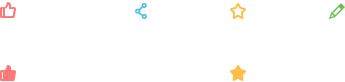
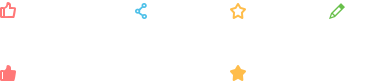
论坛
论坛

diff --git a/source/widget/Mall.forum.index/slider.js b/source/widget/Mall.forum.index/slider.js
@@ -1,0 +1,37 @@
+/**
+ * Created by yangjingjing on 2017/8/9.
+ */
+
+;(function(d){d.flexslider=function(i,k){var a=d(i),c=d.extend({},d.flexslider.defaults,k),e=c.namespace,p="ontouchstart"in window||window.DocumentTouch&&document instanceof DocumentTouch,t=p?"touchend":"click",l="vertical"===c.direction,m=c.reverse,h=0<c.itemWidth,r="fade"===c.animation,s=""!==c.asNavFor,f={};d.data(i,"flexslider",a);f={init:function(){a.animating=!1;a.currentSlide=c.startAt;a.animatingTo=a.currentSlide;a.atEnd=0===a.currentSlide||a.currentSlide===a.last;a.containerSelector=c.selector.substr(0,
+    c.selector.search(" "));a.slides=d(c.selector,a);a.container=d(a.containerSelector,a);a.count=a.slides.length;a.syncExists=0<d(c.sync).length;"slide"===c.animation&&(c.animation="swing");a.prop=l?"top":"marginLeft";a.args={};a.manualPause=!1;var b=a,g;if(g=!c.video)if(g=!r)if(g=c.useCSS)a:{g=document.createElement("div");var n=["perspectiveProperty","WebkitPerspective","MozPerspective","OPerspective","msPerspective"],e;for(e in n)if(void 0!==g.style[n[e]]){a.pfx=n[e].replace("Perspective","").toLowerCase();
+    a.prop="-"+a.pfx+"-transform";g=!0;break a}g=!1}b.transitions=g;""!==c.controlsContainer&&(a.controlsContainer=0<d(c.controlsContainer).length&&d(c.controlsContainer));""!==c.manualControls&&(a.manualControls=0<d(c.manualControls).length&&d(c.manualControls));c.randomize&&(a.slides.sort(function(){return Math.round(Math.random())-0.5}),a.container.empty().append(a.slides));a.doMath();s&&f.asNav.setup();a.setup("init");c.controlNav&&f.controlNav.setup();c.directionNav&&f.directionNav.setup();c.keyboard&&
+(1===d(a.containerSelector).length||c.multipleKeyboard)&&d(document).bind("keyup",function(b){b=b.keyCode;if(!a.animating&&(39===b||37===b))b=39===b?a.getTarget("next"):37===b?a.getTarget("prev"):!1,a.flexAnimate(b,c.pauseOnAction)});c.mousewheel&&a.bind("mousewheel",function(b,g){b.preventDefault();var d=0>g?a.getTarget("next"):a.getTarget("prev");a.flexAnimate(d,c.pauseOnAction)});c.pausePlay&&f.pausePlay.setup();c.slideshow&&(c.pauseOnHover&&a.hover(function(){!a.manualPlay&&!a.manualPause&&a.pause()},
+    function(){!a.manualPause&&!a.manualPlay&&a.play()}),0<c.initDelay?setTimeout(a.play,c.initDelay):a.play());p&&c.touch&&f.touch();(!r||r&&c.smoothHeight)&&d(window).bind("resize focus",f.resize);setTimeout(function(){c.start(a)},200)},asNav:{setup:function(){a.asNav=!0;a.animatingTo=Math.floor(a.currentSlide/a.move);a.currentItem=a.currentSlide;a.slides.removeClass(e+"active-slide").eq(a.currentItem).addClass(e+"active-slide");a.slides.click(function(b){b.preventDefault();var b=d(this),g=b.index();
+    !d(c.asNavFor).data("flexslider").animating&&!b.hasClass("active")&&(a.direction=a.currentItem<g?"next":"prev",a.flexAnimate(g,c.pauseOnAction,!1,!0,!0))})}},controlNav:{setup:function(){a.manualControls?f.controlNav.setupManual():f.controlNav.setupPaging()},setupPaging:function(){var b=1,g;a.controlNavScaffold=d('<ol class="'+e+"control-nav "+e+("thumbnails"===c.controlNav?"control-thumbs":"control-paging")+'"></ol>');if(1<a.pagingCount)for(var n=0;n<a.pagingCount;n++)g="thumbnails"===c.controlNav?
+    '<img src="'+a.slides.eq(n).attr("data-thumb")+'"/>':"<a>"+b+"</a>",a.controlNavScaffold.append("<li>"+g+"</li>"),b++;a.controlsContainer?d(a.controlsContainer).append(a.controlNavScaffold):a.append(a.controlNavScaffold);f.controlNav.set();f.controlNav.active();a.controlNavScaffold.delegate("a, img",t,function(b){b.preventDefault();var b=d(this),g=a.controlNav.index(b);b.hasClass(e+"active")||(a.direction=g>a.currentSlide?"next":"prev",a.flexAnimate(g,c.pauseOnAction))});p&&a.controlNavScaffold.delegate("a",
+    "click touchstart",function(a){a.preventDefault()})},setupManual:function(){a.controlNav=a.manualControls;f.controlNav.active();a.controlNav.live(t,function(b){b.preventDefault();var b=d(this),g=a.controlNav.index(b);b.hasClass(e+"active")||(g>a.currentSlide?a.direction="next":a.direction="prev",a.flexAnimate(g,c.pauseOnAction))});p&&a.controlNav.live("click touchstart",function(a){a.preventDefault()})},set:function(){a.controlNav=d("."+e+"control-nav li "+("thumbnails"===c.controlNav?"img":"a"),
+    a.controlsContainer?a.controlsContainer:a)},active:function(){a.controlNav.removeClass(e+"active").eq(a.animatingTo).addClass(e+"active")},update:function(b,c){1<a.pagingCount&&"add"===b?a.controlNavScaffold.append(d("<li><a>"+a.count+"</a></li>")):1===a.pagingCount?a.controlNavScaffold.find("li").remove():a.controlNav.eq(c).closest("li").remove();f.controlNav.set();1<a.pagingCount&&a.pagingCount!==a.controlNav.length?a.update(c,b):f.controlNav.active()}},directionNav:{setup:function(){var b=d('<ul class="'+
+    e+'direction-nav"><li><a class="'+e+'prev" href="#">'+c.prevText+'</a></li><li><a class="'+e+'next" href="#">'+c.nextText+"</a></li></ul>");a.controlsContainer?(d(a.controlsContainer).append(b),a.directionNav=d("."+e+"direction-nav li a",a.controlsContainer)):(a.append(b),a.directionNav=d("."+e+"direction-nav li a",a));f.directionNav.update();a.directionNav.bind(t,function(b){b.preventDefault();b=d(this).hasClass(e+"next")?a.getTarget("next"):a.getTarget("prev");a.flexAnimate(b,c.pauseOnAction)});
+    p&&a.directionNav.bind("click touchstart",function(a){a.preventDefault()})},update:function(){var b=e+"disabled";1===a.pagingCount?a.directionNav.addClass(b):c.animationLoop?a.directionNav.removeClass(b):0===a.animatingTo?a.directionNav.removeClass(b).filter("."+e+"prev").addClass(b):a.animatingTo===a.last?a.directionNav.removeClass(b).filter("."+e+"next").addClass(b):a.directionNav.removeClass(b)}},pausePlay:{setup:function(){var b=d('<div class="'+e+'pauseplay"><a></a></div>');a.controlsContainer?
+    (a.controlsContainer.append(b),a.pausePlay=d("."+e+"pauseplay a",a.controlsContainer)):(a.append(b),a.pausePlay=d("."+e+"pauseplay a",a));f.pausePlay.update(c.slideshow?e+"pause":e+"play");a.pausePlay.bind(t,function(b){b.preventDefault();d(this).hasClass(e+"pause")?(a.manualPause=!0,a.manualPlay=!1,a.pause()):(a.manualPause=!1,a.manualPlay=!0,a.play())});p&&a.pausePlay.bind("click touchstart",function(a){a.preventDefault()})},update:function(b){"play"===b?a.pausePlay.removeClass(e+"pause").addClass(e+
+        "play").text(c.playText):a.pausePlay.removeClass(e+"play").addClass(e+"pause").text(c.pauseText)}},touch:function(){function b(b){j=l?d-b.touches[0].pageY:d-b.touches[0].pageX;p=l?Math.abs(j)<Math.abs(b.touches[0].pageX-e):Math.abs(j)<Math.abs(b.touches[0].pageY-e);if(!p||500<Number(new Date)-k)b.preventDefault(),!r&&a.transitions&&(c.animationLoop||(j/=0===a.currentSlide&&0>j||a.currentSlide===a.last&&0<j?Math.abs(j)/q+2:1),a.setProps(f+j,"setTouch"))}function g(){i.removeEventListener("touchmove",
+    b,!1);if(a.animatingTo===a.currentSlide&&!p&&null!==j){var h=m?-j:j,l=0<h?a.getTarget("next"):a.getTarget("prev");a.canAdvance(l)&&(550>Number(new Date)-k&&50<Math.abs(h)||Math.abs(h)>q/2)?a.flexAnimate(l,c.pauseOnAction):r||a.flexAnimate(a.currentSlide,c.pauseOnAction,!0)}i.removeEventListener("touchend",g,!1);f=j=e=d=null}var d,e,f,q,j,k,p=!1;i.addEventListener("touchstart",function(j){a.animating?j.preventDefault():1===j.touches.length&&(a.pause(),q=l?a.h:a.w,k=Number(new Date),f=h&&m&&a.animatingTo===
+    a.last?0:h&&m?a.limit-(a.itemW+c.itemMargin)*a.move*a.animatingTo:h&&a.currentSlide===a.last?a.limit:h?(a.itemW+c.itemMargin)*a.move*a.currentSlide:m?(a.last-a.currentSlide+a.cloneOffset)*q:(a.currentSlide+a.cloneOffset)*q,d=l?j.touches[0].pageY:j.touches[0].pageX,e=l?j.touches[0].pageX:j.touches[0].pageY,i.addEventListener("touchmove",b,!1),i.addEventListener("touchend",g,!1))},!1)},resize:function(){!a.animating&&a.is(":visible")&&(h||a.doMath(),r?f.smoothHeight():h?(a.slides.width(a.computedW),
+            a.update(a.pagingCount),a.setProps()):l?(a.viewport.height(a.h),a.setProps(a.h,"setTotal")):(c.smoothHeight&&f.smoothHeight(),a.newSlides.width(a.computedW),a.setProps(a.computedW,"setTotal")))},smoothHeight:function(b){if(!l||r){var c=r?a:a.viewport;b?c.animate({height:a.slides.eq(a.animatingTo).height()},b):c.height(a.slides.eq(a.animatingTo).height())}},sync:function(b){var g=d(c.sync).data("flexslider"),e=a.animatingTo;switch(b){case "animate":g.flexAnimate(e,c.pauseOnAction,!1,!0);break;case "play":!g.playing&&
+!g.asNav&&g.play();break;case "pause":g.pause()}}};a.flexAnimate=function(b,g,n,i,k){s&&1===a.pagingCount&&(a.direction=a.currentItem<b?"next":"prev");if(!a.animating&&(a.canAdvance(b,k)||n)&&a.is(":visible")){if(s&&i)if(n=d(c.asNavFor).data("flexslider"),a.atEnd=0===b||b===a.count-1,n.flexAnimate(b,!0,!1,!0,k),a.direction=a.currentItem<b?"next":"prev",n.direction=a.direction,Math.ceil((b+1)/a.visible)-1!==a.currentSlide&&0!==b)a.currentItem=b,a.slides.removeClass(e+"active-slide").eq(b).addClass(e+
+    "active-slide"),b=Math.floor(b/a.visible);else return a.currentItem=b,a.slides.removeClass(e+"active-slide").eq(b).addClass(e+"active-slide"),!1;a.animating=!0;a.animatingTo=b;c.before(a);g&&a.pause();a.syncExists&&!k&&f.sync("animate");c.controlNav&&f.controlNav.active();h||a.slides.removeClass(e+"active-slide").eq(b).addClass(e+"active-slide");a.atEnd=0===b||b===a.last;c.directionNav&&f.directionNav.update();b===a.last&&(c.end(a),c.animationLoop||a.pause());if(r)p?(a.slides.eq(a.currentSlide).css({opacity:0,
+        zIndex:1}),a.slides.eq(b).css({opacity:1,zIndex:2}),a.slides.unbind("webkitTransitionEnd transitionend"),a.slides.eq(a.currentSlide).bind("webkitTransitionEnd transitionend",function(){c.after(a)}),a.animating=!1,a.currentSlide=a.animatingTo):(a.slides.eq(a.currentSlide).fadeOut(c.animationSpeed,c.easing),a.slides.eq(b).fadeIn(c.animationSpeed,c.easing,a.wrapup));else{var q=l?a.slides.filter(":first").height():a.computedW;h?(b=c.itemWidth>a.w?2*c.itemMargin:c.itemMargin,b=(a.itemW+b)*a.move*a.animatingTo,
+        b=b>a.limit&&1!==a.visible?a.limit:b):b=0===a.currentSlide&&b===a.count-1&&c.animationLoop&&"next"!==a.direction?m?(a.count+a.cloneOffset)*q:0:a.currentSlide===a.last&&0===b&&c.animationLoop&&"prev"!==a.direction?m?0:(a.count+1)*q:m?(a.count-1-b+a.cloneOffset)*q:(b+a.cloneOffset)*q;a.setProps(b,"",c.animationSpeed);if(a.transitions){if(!c.animationLoop||!a.atEnd)a.animating=!1,a.currentSlide=a.animatingTo;a.container.unbind("webkitTransitionEnd transitionend");a.container.bind("webkitTransitionEnd transitionend",
+    function(){a.wrapup(q)})}else a.container.animate(a.args,c.animationSpeed,c.easing,function(){a.wrapup(q)})}c.smoothHeight&&f.smoothHeight(c.animationSpeed)}};a.wrapup=function(b){!r&&!h&&(0===a.currentSlide&&a.animatingTo===a.last&&c.animationLoop?a.setProps(b,"jumpEnd"):a.currentSlide===a.last&&(0===a.animatingTo&&c.animationLoop)&&a.setProps(b,"jumpStart"));a.animating=!1;a.currentSlide=a.animatingTo;c.after(a)};a.animateSlides=function(){a.animating||a.flexAnimate(a.getTarget("next"))};a.pause=
+    function(){clearInterval(a.animatedSlides);a.playing=!1;c.pausePlay&&f.pausePlay.update("play");a.syncExists&&f.sync("pause")};a.play=function(){a.animatedSlides=setInterval(a.animateSlides,c.slideshowSpeed);a.playing=!0;c.pausePlay&&f.pausePlay.update("pause");a.syncExists&&f.sync("play")};a.canAdvance=function(b,g){var d=s?a.pagingCount-1:a.last;return g?!0:s&&a.currentItem===a.count-1&&0===b&&"prev"===a.direction?!0:s&&0===a.currentItem&&b===a.pagingCount-1&&"next"!==a.direction?!1:b===a.currentSlide&&
+            !s?!1:c.animationLoop?!0:a.atEnd&&0===a.currentSlide&&b===d&&"next"!==a.direction?!1:a.atEnd&&a.currentSlide===d&&0===b&&"next"===a.direction?!1:!0};a.getTarget=function(b){a.direction=b;return"next"===b?a.currentSlide===a.last?0:a.currentSlide+1:0===a.currentSlide?a.last:a.currentSlide-1};a.setProps=function(b,g,d){var e,f=b?b:(a.itemW+c.itemMargin)*a.move*a.animatingTo;e=-1*function(){if(h)return"setTouch"===g?b:m&&a.animatingTo===a.last?0:m?a.limit-(a.itemW+c.itemMargin)*a.move*a.animatingTo:a.animatingTo===
+                a.last?a.limit:f;switch(g){case "setTotal":return m?(a.count-1-a.currentSlide+a.cloneOffset)*b:(a.currentSlide+a.cloneOffset)*b;case "setTouch":return b;case "jumpEnd":return m?b:a.count*b;case "jumpStart":return m?a.count*b:b;default:return b}}()+"px";a.transitions&&(e=l?"translate3d(0,"+e+",0)":"translate3d("+e+",0,0)",d=void 0!==d?d/1E3+"s":"0s",a.container.css("-"+a.pfx+"-transition-duration",d));a.args[a.prop]=e;(a.transitions||void 0===d)&&a.container.css(a.args)};a.setup=function(b){if(r)a.slides.css({width:"100%",
+    "float":"left",marginRight:"-100%",position:"relative"}),"init"===b&&(p?a.slides.css({opacity:0,display:"block",webkitTransition:"opacity "+c.animationSpeed/1E3+"s ease",zIndex:1}).eq(a.currentSlide).css({opacity:1,zIndex:2}):a.slides.eq(a.currentSlide).fadeIn(c.animationSpeed,c.easing)),c.smoothHeight&&f.smoothHeight();else{var g,n;"init"===b&&(a.viewport=d('<div class="'+e+'viewport"></div>').css({overflow:"hidden",position:"relative"}).appendTo(a).append(a.container),a.cloneCount=0,a.cloneOffset=
+    0,m&&(n=d.makeArray(a.slides).reverse(),a.slides=d(n),a.container.empty().append(a.slides)));c.animationLoop&&!h&&(a.cloneCount=2,a.cloneOffset=1,"init"!==b&&a.container.find(".clone").remove(),a.container.append(a.slides.first().clone().addClass("clone")).prepend(a.slides.last().clone().addClass("clone")));a.newSlides=d(c.selector,a);g=m?a.count-1-a.currentSlide+a.cloneOffset:a.currentSlide+a.cloneOffset;l&&!h?(a.container.height(200*(a.count+a.cloneCount)+"%").css("position","absolute").width("100%"),
+        setTimeout(function(){a.newSlides.css({display:"block"});a.doMath();a.viewport.height(a.h);a.setProps(g*a.h,"init")},"init"===b?100:0)):(a.container.width(200*(a.count+a.cloneCount)+"%"),a.setProps(g*a.computedW,"init"),setTimeout(function(){a.doMath();a.newSlides.css({width:a.computedW,"float":"left",display:"block"});c.smoothHeight&&f.smoothHeight()},"init"===b?100:0))}h||a.slides.removeClass(e+"active-slide").eq(a.currentSlide).addClass(e+"active-slide")};a.doMath=function(){var b=a.slides.first(),
+    d=c.itemMargin,e=c.minItems,f=c.maxItems;a.w=a.width();a.h=b.height();a.boxPadding=b.outerWidth()-b.width();h?(a.itemT=c.itemWidth+d,a.minW=e?e*a.itemT:a.w,a.maxW=f?f*a.itemT:a.w,a.itemW=a.minW>a.w?(a.w-d*e)/e:a.maxW<a.w?(a.w-d*f)/f:c.itemWidth>a.w?a.w:c.itemWidth,a.visible=Math.floor(a.w/(a.itemW+d)),a.move=0<c.move&&c.move<a.visible?c.move:a.visible,a.pagingCount=Math.ceil((a.count-a.visible)/a.move+1),a.last=a.pagingCount-1,a.limit=1===a.pagingCount?0:c.itemWidth>a.w?(a.itemW+2*d)*a.count-a.w-
+            d:(a.itemW+d)*a.count-a.w-d):(a.itemW=a.w,a.pagingCount=a.count,a.last=a.count-1);a.computedW=a.itemW-a.boxPadding};a.update=function(b,d){a.doMath();h||(b<a.currentSlide?a.currentSlide+=1:b<=a.currentSlide&&0!==b&&(a.currentSlide-=1),a.animatingTo=a.currentSlide);if(c.controlNav&&!a.manualControls)if("add"===d&&!h||a.pagingCount>a.controlNav.length)f.controlNav.update("add");else if("remove"===d&&!h||a.pagingCount<a.controlNav.length)h&&a.currentSlide>a.last&&(a.currentSlide-=1,a.animatingTo-=1),
+    f.controlNav.update("remove",a.last);c.directionNav&&f.directionNav.update()};a.addSlide=function(b,e){var f=d(b);a.count+=1;a.last=a.count-1;l&&m?void 0!==e?a.slides.eq(a.count-e).after(f):a.container.prepend(f):void 0!==e?a.slides.eq(e).before(f):a.container.append(f);a.update(e,"add");a.slides=d(c.selector+":not(.clone)",a);a.setup();c.added(a)};a.removeSlide=function(b){var e=isNaN(b)?a.slides.index(d(b)):b;a.count-=1;a.last=a.count-1;isNaN(b)?d(b,a.slides).remove():l&&m?a.slides.eq(a.last).remove():
+        a.slides.eq(b).remove();a.doMath();a.update(e,"remove");a.slides=d(c.selector+":not(.clone)",a);a.setup();c.removed(a)};f.init()};d.flexslider.defaults={namespace:"flex-",selector:".slides > li",animation:"fade",easing:"swing",direction:"horizontal",reverse:!1,animationLoop:!0,smoothHeight:!1,startAt:0,slideshow:!0,slideshowSpeed:3000,animationSpeed:400,initDelay:0,randomize:!1,pauseOnAction:!0,pauseOnHover:!0,useCSS:!0,touch:!0,video:!1,controlNav:!0,directionNav:!0,prevText:"Previous",nextText:"Next",
+    keyboard:!0,multipleKeyboard:!1,mousewheel:!1,pausePlay:!1,pauseText:"Pause",playText:"Play",controlsContainer:"",manualControls:"",sync:"",asNavFor:"",itemWidth:0,itemMargin:0,minItems:0,maxItems:0,move:0,start:function(){},before:function(){},after:function(){},end:function(){},added:function(){},removed:function(){}};d.fn.flexslider=function(i){void 0===i&&(i={});if("object"===typeof i)return this.each(function(){var a=d(this),c=a.find(i.selector?i.selector:".slides > li");1===c.length?(c.fadeIn(400),
+    i.start&&i.start(a)):void 0==a.data("flexslider")&&new d.flexslider(this,i)});var k=d(this).data("flexslider");switch(i){case "play":k.play();break;case "pause":k.pause();break;case "next":k.flexAnimate(k.getTarget("next"),!0);break;case "prev":case "previous":k.flexAnimate(k.getTarget("prev"),!0);break;default:"number"===typeof i&&k.flexAnimate(i,!0)}}})(jQuery);

diff --git a/source/widget/Mall.forum.index/index.less b/source/widget/Mall.forum.index/index.less
@@ -10,9 +10,13 @@ html{
   body{
     .forum-main{
       .forum-banner{
+        position: relative;
         width: 100%;
+        height: 300px;
         border-radius: 2px;
         margin-bottom: 27px;
+        overflow: hidden;
+        zoom: 1;
       }
 
       .index-content{
@@ -50,18 +54,18 @@ html{
                   -o-transform: rotate(0deg);
                 }
                 25% {
-                  transform: rotate(15deg);
-                  -ms-transform: rotate(15deg);
-                  -webkit-transform: rotate(15deg);
-                  -moz-transform: rotate(15deg);
-                  -o-transform: rotate(15deg);
+                  transform: rotate(5deg);
+                  -ms-transform: rotate(5deg);
+                  -webkit-transform: rotate(5deg);
+                  -moz-transform: rotate(5deg);
+                  -o-transform: rotate(5deg);
                 }
                 75% {
-                  transform: rotate(-15deg);
-                  -ms-transform: rotate(-15deg);
-                  -webkit-transform: rotate(-15deg);
-                  -moz-transform: rotate(-15deg);
-                  -o-transform: rotate(-15deg);
+                  transform: rotate(-5deg);
+                  -ms-transform: rotate(-5deg);
+                  -webkit-transform: rotate(-5deg);
+                  -moz-transform: rotate(-5deg);
+                  -o-transform: rotate(-5deg);
                 }
                 100% {
                   transform: rotate(0deg);
@@ -82,18 +86,18 @@ html{
                   -o-transform: rotate(0deg);
                 }
                 25% {
-                  transform: rotate(15deg);
-                  -ms-transform: rotate(15deg);
-                  -webkit-transform: rotate(15deg);
-                  -moz-transform: rotate(15deg);
-                  -o-transform: rotate(15deg);
+                  transform: rotate(5deg);
+                  -ms-transform: rotate(5deg);
+                  -webkit-transform: rotate(5deg);
+                  -moz-transform: rotate(5deg);
+                  -o-transform: rotate(5deg);
                 }
                 75% {
-                  transform: rotate(-15deg);
-                  -ms-transform: rotate(-15deg);
-                  -webkit-transform: rotate(-15deg);
-                  -moz-transform: rotate(-15deg);
-                  -o-transform: rotate(-15deg);
+                  transform: rotate(-5deg);
+                  -ms-transform: rotate(-5deg);
+                  -webkit-transform: rotate(-5deg);
+                  -moz-transform: rotate(-5deg);
+                  -o-transform: rotate(-5deg);
                 }
                 100% {
                   transform: rotate(0deg);
@@ -109,7 +113,7 @@ html{
               }
               p{
                 position: absolute;
-                bottom: 56px;
+                bottom: 57px;
                 width: 191px;
                 text-align: center;
                 font-family:myFirstFont !important;
@@ -189,6 +193,7 @@ html{
           font-family: myFirstFont;
           font-size: 18px;
           color: #0c6476;
+          cursor: pointer;
           background: url("img/indexFooterBtn.png") no-repeat;
           &:hover{
             background: url("img/indexFooterBtnHover.png") no-repeat;

diff --git a/source/widget/Mall.forum.Three/Three.less b/source/widget/Mall.forum.Three/Three.less
@@ -40,9 +40,43 @@ html{
               margin: 35px auto;
             }
           }
+          .article-toolbar{
+            position: fixed;
+            bottom: 2px;
+            width: 898px;
+            height: 50px;
+            line-height: 50px;
+            background: #fcfcfc;
+            border-bottom: 1px solid #f1f2f6;
+            border-top: 1px solid #f1f2f6;
+            i{
+              display: inline-block;
+              margin-left: 50px;
+              padding-left: 20px;
+              line-height: 24px;
+              cursor: pointer;
+              font-style: normal;
+              font-size: 14px;
+              color: #999999;
+            }
+            .thumbs-up{
+              margin-left: 475px;
+              background: url(img/forumThreeIcon.png) 0 0;
+            }
+            .share{
+              background: url(img/forumThreeIcon.png) -134px 0;
+            }
+            .collection{
+              background: url(img/forumThreeIcon.png) 161px 0;
+            }
+            .leaving-message{
+              background: url(img/forumThreeIcon.png) 61px 0;
+            }
+          }
         }
 
         .forum-comment{
+          margin-bottom: 30px;
           padding: 30px;
           background: #ffffff;
           border: 1px solid #e5e6e9;
@@ -58,8 +92,8 @@ html{
               width: 100%;
               padding: 0 115px 0 10px;
               margin: 27px 0;
-              border: 2px solid #e5e6e9;
-              border-radius: 5px;
+              border: 1px solid #e5e6e9;
+              border-radius: 2px;
               font-size: 16px;
               color: #333333;
               outline: 0 none;
@@ -82,9 +116,9 @@ html{
               right: 5px;
               width: 80px;
               height: 35px;
-              border-radius: 5px;
+              border-radius: 2px;
               color: #FFFFFF;
-              background: #e5e6e9;
+              background: #dcdde0;
             }
           }
           ul{
@@ -186,13 +220,14 @@ html{
             font-size: 14px;
             color: #9fa3a7;
           }
-          .btn-info{
+          .more-message{
             display: block;
             height: 35px;
             width: 140px;
             margin: 25px auto;
             background-color: #4fc1e9;
             font-size: 14px;
+            border-radius: 2px;
             &:hover{
               background-color: #3bafda;
             }
